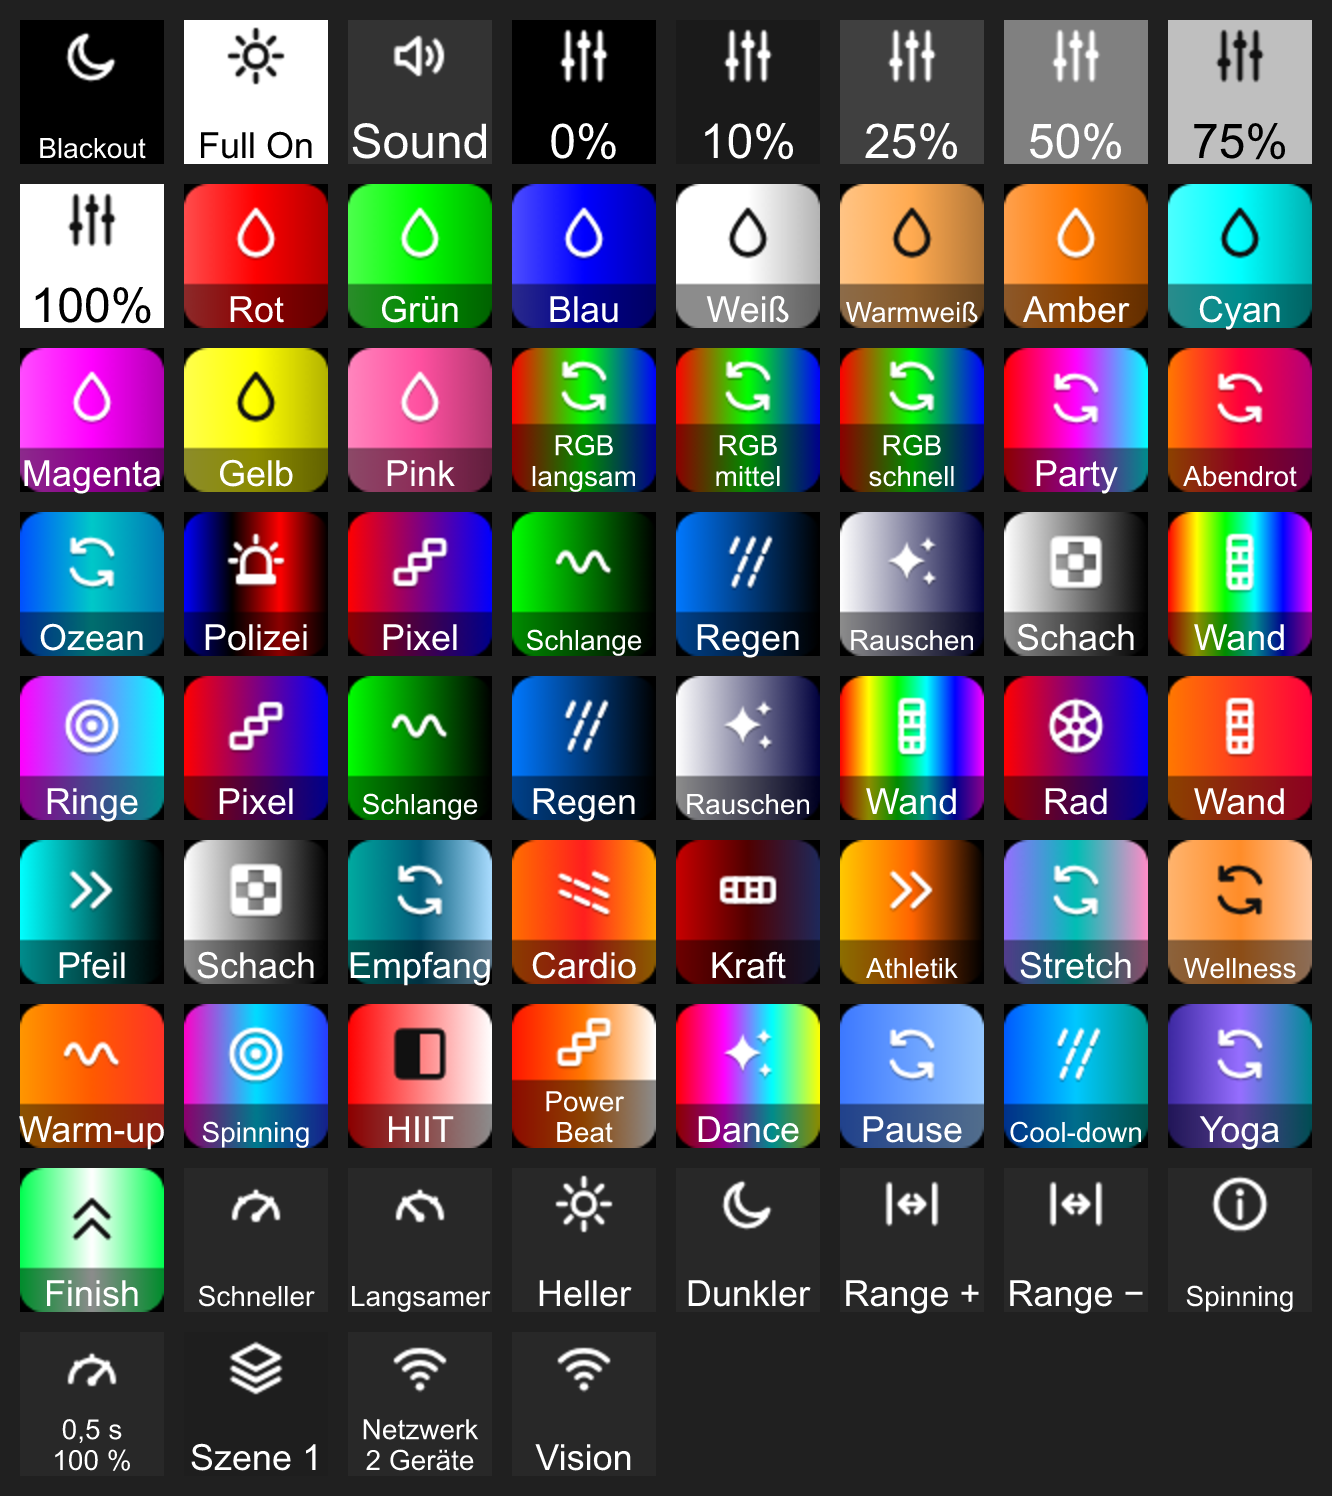
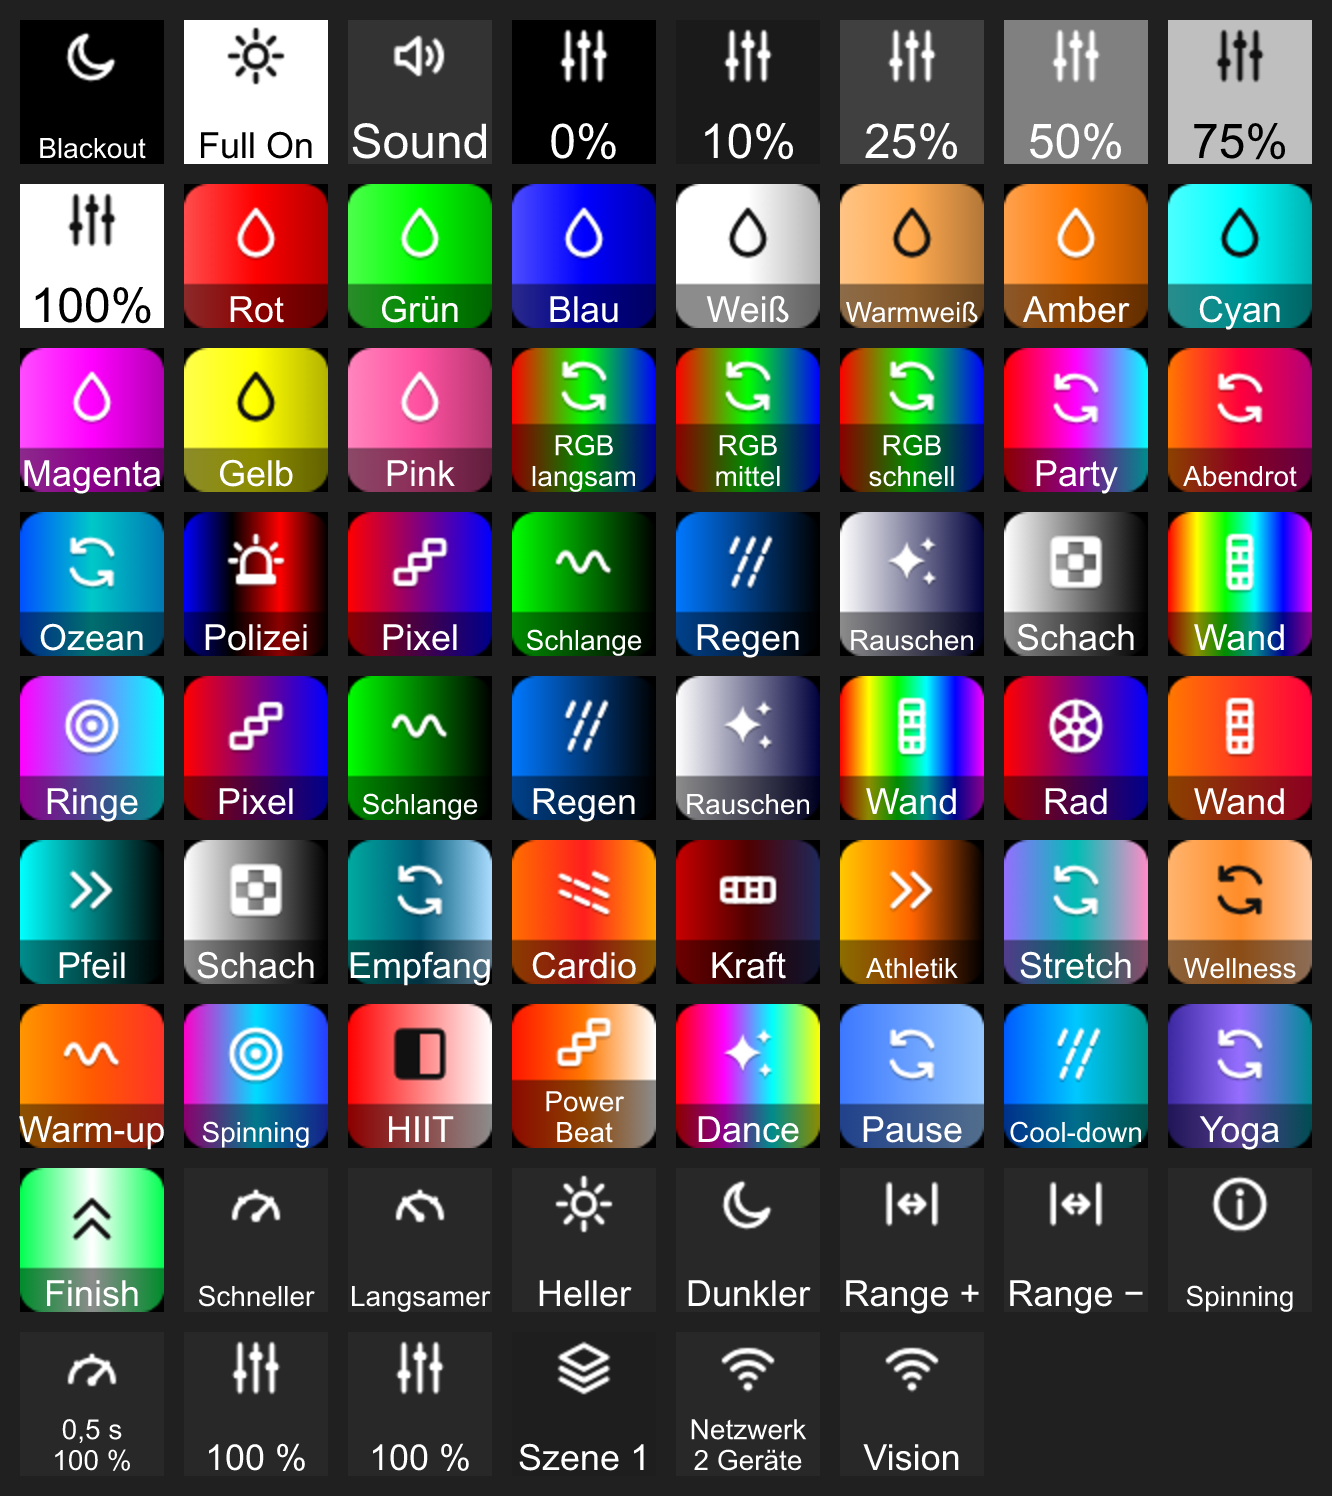
Helligkeit per Drehregler (Stream Deck +)
- Aktion "Helligkeit schrittweise (Drehregler)": Schritt in Prozentpunkten,
  schnelle Ticks werden zusammengefasst (läuft ein Befehl, wird danach nur der
  neueste Wert gesendet), kein Schritt geht verloren
- Aktion "Blackout an/aus": merkt die Helligkeit vor dem Blackout
- Feedback "Helligkeit als Balken" (RGBA-Bildpuffer) für das Display
- Presets "Drehregler (Stream Deck +)": Helligkeit (5 %) und fein (1 %),
  drehen = heller/dunkler, drücken = Blackout an/aus
- Frische Drehregler-Werte überstehen ältere Abfrageergebnisse (2,5 s)
- HELP: Abschnitt Stream Deck +, README: Funktionsliste aktualisiert

diff --git a/src/main.js b/src/main.js
@@ -11,6 +11,9 @@ const { readLocalScenes } = require('./localscenes')
 
 const REQUEST_TIMEOUT_MS = 5000
 const MAX_TRANSIENT_RETRIES = 3
+// Solange gilt ein Drehregler-Wert als aktuell, auch wenn die Abfrage noch den alten Stand liefert
+const DIM_HOLD_MS = 2500
+const DIM_FULL = 65535
 
 class VisionControlInstance extends InstanceBase {
 	constructor(internal) {
@@ -30,6 +33,9 @@ class VisionControlInstance extends InstanceBase {
 		this.scenesReadError = null
 		this.devices = [] // Geräte des Netzwerks aus GET /Network/Info (auch ausgeschaltete)
 		this.devicesReadOk = false
+		this.dimPending = {} // 'group:0' -> { value, at } letzter Helligkeitswert vom Drehregler
+		this.dimSending = {} // 'group:0' -> true, solange ein Helligkeitsbefehl unterwegs ist
+		this.dimMemory = {} // 'group:0' -> Helligkeit vor dem Blackout
 	}
 
 	async init(config) {
@@ -237,7 +243,7 @@ class VisionControlInstance extends InstanceBase {
 
 			this.connected = true
 			this.updateStatus(InstanceStatus.Ok)
-			this.checkFeedbacks('scene_active', 'connected', 'effect_active', 'color_active', 'active_effect_image', 'network_status')
+			this.checkFeedbacks('scene_active', 'connected', 'effect_active', 'color_active', 'active_effect_image', 'network_status', 'dimmer_level')
 			this.updateVariables()
 		} catch (e) {
 			this.connected = false
@@ -297,7 +303,10 @@ class VisionControlInstance extends InstanceBase {
 
 	async readProgrammer() {
 		const res = await this.http('GET', '/Control', undefined, true)
-		if (res.ok) this.programmer = await res.json()
+		if (res.ok) {
+			this.programmer = await res.json()
+			this.applyPendingDimmer()
+		}
 		return this.programmer
 	}
 
@@ -319,7 +328,7 @@ class VisionControlInstance extends InstanceBase {
 			this.refreshTimer = null
 			try {
 				await this.readProgrammer()
-				this.checkFeedbacks('effect_active', 'color_active', 'active_effect_image')
+				this.checkFeedbacks('effect_active', 'color_active', 'active_effect_image', 'dimmer_level')
 				this.updateVariables()
 			} catch (e) {
 				this.log('debug', `Aktualisierung fehlgeschlagen: ${e.message || e}`)
@@ -337,6 +346,69 @@ class VisionControlInstance extends InstanceBase {
 		}
 		await this.setControl(target, id, partial, 0)
 		this.scheduleRefresh()
+	}
+
+	// ---- Helligkeit per Drehregler -------------------------------------------
+
+	/** Aktuelle Helligkeit 0..65535: frischer Drehregler-Wert, sonst der zuletzt gelesene Stand */
+	dimmerNow(target, id) {
+		const p = this.dimPending[`${target}:${id}`]
+		if (p && Date.now() - p.at < DIM_HOLD_MS) return p.value
+		const c = findContent(this.programmer, target, id)
+		return c && c.MasterDimmer && typeof c.MasterDimmer.Value === 'number' ? c.MasterDimmer.Value : DIM_FULL
+	}
+
+	/** Frische Drehregler-Werte in den gelesenen Stand eintragen, damit Anzeige und Feedbacks nicht zurückspringen */
+	applyPendingDimmer() {
+		for (const [key, p] of Object.entries(this.dimPending)) {
+			if (Date.now() - p.at >= DIM_HOLD_MS) continue
+			const [target, id] = key.split(':')
+			const c = findContent(this.programmer, target, id)
+			if (c) c.MasterDimmer = { ...(c.MasterDimmer || {}), Default: false, Value: p.value }
+		}
+	}
+
+	/** Helligkeit um stepPct Prozentpunkte ändern (positiv = heller) */
+	async stepDimmer(target, id, stepPct) {
+		const value = this.dimmerNow(target, id) + Math.round((stepPct / 100) * DIM_FULL)
+		await this.setDimmerQueued(target, id, value, 0)
+	}
+
+	/** Blackout an/aus: merkt sich die Helligkeit davor und stellt sie wieder her */
+	async toggleBlackout(target, id, fade) {
+		const key = `${target}:${id}`
+		const cur = this.dimmerNow(target, id)
+		if (cur > 0) {
+			this.dimMemory[key] = cur
+			await this.setDimmerQueued(target, id, 0, fade)
+		} else {
+			await this.setDimmerQueued(target, id, this.dimMemory[key] || DIM_FULL, fade)
+		}
+	}
+
+	/**
+	 * Setzt die Helligkeit. Schnelle Drehregler-Schritte werden zusammengefasst:
+	 * Läuft schon ein Befehl, wird danach nur der neueste Wert gesendet.
+	 */
+	async setDimmerQueued(target, id, value, fade) {
+		const key = `${target}:${id}`
+		const v = Math.max(0, Math.min(DIM_FULL, Math.round(value)))
+		this.dimPending[key] = { value: v, at: Date.now() }
+		this.applyPendingDimmer()
+		this.updateVariables()
+		this.checkFeedbacks('active_effect_image', 'effect_active', 'color_active', 'dimmer_level')
+		if (this.dimSending[key]) return
+		this.dimSending[key] = true
+		try {
+			let sent = null
+			while (sent !== this.dimPending[key].value) {
+				sent = this.dimPending[key].value
+				await this.setControl(target, Number(id), { MasterDimmer: { Default: false, Value: sent, Fx: null } }, fade)
+			}
+		} finally {
+			this.dimSending[key] = false
+			this.scheduleRefresh(300)
+		}
 	}
 
 	// ---- Steuer-Helfer --------------------------------------------------------

diff --git a/src/feedbacks.js b/src/feedbacks.js
@@ -46,8 +46,28 @@ const WHITE = combineRgb(255, 255, 255)
 const GREEN = combineRgb(0, 153, 51)
 const RED = combineRgb(204, 0, 0)
 
+// Balken unter dem Symbol: orange gefüllt (wie der Aktiv-Rahmen), Rest dunkelgrau
+const BAR = { x: 6, y: 38, width: 60, height: 6 }
+function levelBar(fraction) {
+	const f = Math.max(0, Math.min(1, fraction || 0))
+	const filled = Math.round(f * BAR.width)
+	const buf = Buffer.alloc(BAR.width * BAR.height * 4)
+	for (let y = 0; y < BAR.height; y++) {
+		for (let x = 0; x < BAR.width; x++) {
+			const i = (y * BAR.width + x) * 4
+			const [r, g, b] = x < filled ? [255, 122, 0] : [85, 85, 85]
+			buf[i] = r
+			buf[i + 1] = g
+			buf[i + 2] = b
+			buf[i + 3] = 255
+		}
+	}
+	return { imageBuffer: buf.toString('base64'), imageBufferEncoding: { pixelFormat: 'RGBA' }, imageBufferPosition: BAR }
+}
+
 module.exports = UpdateFeedbacks
 module.exports.activeImageStyle = activeImageStyle
+module.exports.levelBar = levelBar
 
 function UpdateFeedbacks(self) {
 	// Variablen im Kontext der Taste auflösen, inkl. lokaler Variablen
@@ -120,6 +140,21 @@ function UpdateFeedbacks(self) {
 			callback: async (feedback, context) => {
 				const o = feedback.options
 				return activeImageStyle(self.activeFor(o.target, Number(await parse(context, o.id)) || 0))
+			},
+		},
+
+		dimmer_level: {
+			name: 'Helligkeit als Balken',
+			description: 'Zeichnet die aktuelle Helligkeit als Balken, z. B. für den Drehregler am Stream Deck +.',
+			type: 'advanced',
+			options: [
+				{ id: 'target', type: 'dropdown', label: 'Ziel', default: 'group', choices: TARGETS },
+				{ id: 'id', type: 'textinput', label: 'GroupID / RDMID', default: '0', useVariables: LOCAL_VARS },
+			],
+			callback: async (feedback, context) => {
+				const o = feedback.options
+				const id = Number(await parse(context, o.id)) || 0
+				return levelBar(self.dimmerNow(o.target, id) / 65535)
 			},
 		},
 

diff --git a/src/presets.js b/src/presets.js
@@ -221,6 +221,48 @@ module.exports = function (self) {
 		feedbacks: [],
 	}
 
+	// ---- Drehregler (Stream Deck +) -------------------------------------------
+	// Drehen ändert die Helligkeit, Drücken schaltet Blackout an/aus.
+	// Der Balken zeigt die Helligkeit auf dem Display über dem Regler.
+
+	presets['encoder_dimmer'] = {
+		type: 'button',
+		category: 'Drehregler (Stream Deck +)',
+		name: 'Helligkeit: drehen = heller/dunkler, drücken = Blackout an/aus',
+		options: { rotaryActions: true },
+		style: {
+			text: `$(${label}:active_dimmer)`,
+			size: '18',
+			color: WHITE,
+			bgcolor: combineRgb(40, 40, 40),
+			png64: icon('dimmer', 'light'),
+			pngalignment: 'center:top',
+			alignment: 'center:bottom',
+		},
+		steps: [
+			{
+				down: [{ actionId: 'dimmer_toggle', options: { target: 'group', id: GROUP, fade: 0 } }],
+				up: [],
+				rotate_left: [{ actionId: 'dimmer_step', options: { target: 'group', id: GROUP, step: -5 } }],
+				rotate_right: [{ actionId: 'dimmer_step', options: { target: 'group', id: GROUP, step: 5 } }],
+			},
+		],
+		feedbacks: [{ feedbackId: 'dimmer_level', options: { target: 'group', id: GROUP } }],
+	}
+
+	presets['encoder_dimmer_fine'] = {
+		...presets['encoder_dimmer'],
+		name: 'Helligkeit fein (1 % je Raste)',
+		steps: [
+			{
+				down: [{ actionId: 'dimmer_toggle', options: { target: 'group', id: GROUP, fade: 0 } }],
+				up: [],
+				rotate_left: [{ actionId: 'dimmer_step', options: { target: 'group', id: GROUP, step: -1 } }],
+				rotate_right: [{ actionId: 'dimmer_step', options: { target: 'group', id: GROUP, step: 1 } }],
+			},
+		],
+	}
+
 	// ---- Szenen: automatisch aus der App ----------------------------------------
 	// Der Tastentext ist die Namens-Variable der Szene, damit Umbenennungen in
 	// der App auch bereits platzierte Tasten erreichen.

diff --git a/src/actions.js b/src/actions.js
@@ -199,6 +199,34 @@ module.exports = function (self) {
 			},
 		},
 
+		dimmer_step: {
+			name: 'Helligkeit schrittweise (Drehregler)',
+			description: 'Für Drehregler, z. B. Stream Deck +: links drehen = negativer Schritt, rechts = positiver. Schnelles Drehen wird zusammengefasst.',
+			options: [
+				{ id: 'target', type: 'dropdown', label: 'Ziel', default: 'group', choices: TARGETS },
+				{ id: 'id', type: 'textinput', label: 'GroupID / RDMID', default: '0', useVariables: LOCAL_VARS },
+				{ id: 'step', type: 'number', label: 'Schritt in Prozentpunkten (negativ = dunkler)', default: 5, min: -100, max: 100 },
+			],
+			callback: async (event, context) => {
+				const id = Number(await parse(context, event.options.id))
+				await self.stepDimmer(event.options.target, id, Number(event.options.step) || 0)
+			},
+		},
+
+		dimmer_toggle: {
+			name: 'Blackout an/aus (Helligkeit merken)',
+			description: 'Schaltet auf 0 und beim nächsten Mal zurück auf die Helligkeit davor.',
+			options: [
+				{ id: 'target', type: 'dropdown', label: 'Ziel', default: 'group', choices: TARGETS },
+				{ id: 'id', type: 'textinput', label: 'GroupID / RDMID', default: '0', useVariables: LOCAL_VARS },
+				{ id: 'fade', type: 'number', label: 'Überblendung (0=sofort … 255=max, keine Sekunden)', default: 0, min: 0, max: 255 },
+			],
+			callback: async (event, context) => {
+				const id = Number(await parse(context, event.options.id))
+				await self.toggleBlackout(event.options.target, id, event.options.fade)
+			},
+		},
+
 		color_chase: {
 			name: 'Effekt: Farbwechsel (RGB-Fx)',
 			options: [

diff --git a/companion/HELP.md b/companion/HELP.md
@@ -26,6 +26,8 @@ Das Modul meldet sich automatisch an, erneuert das Token vor Ablauf und wiederho
 - **Farbe & Dimmer setzen**, **Dimmer setzen**, **Blackout**
 - **Effekt aus Katalog** – fertige Effekte per Auswahlliste. Optional lassen sich einzelne Werte überschreiben (Häkchen setzen, dann erscheinen die Felder):
   - Helligkeit, Tempo (Sekunden pro Farbschritt und Weichheit), Range, eigene Farben, Richtung umkehren
+- **Helligkeit schrittweise (Drehregler)** – ändert die Helligkeit um einen Schritt in Prozentpunkten (negativ = dunkler). Schnelles Drehen wird zusammengefasst, es geht kein Schritt verloren.
+- **Blackout an/aus (Helligkeit merken)** – schaltet auf 0 und beim nächsten Druck zurück auf die Helligkeit davor
 - **Laufenden Effekt anpassen** – Schneller, Langsamer, Heller, Dunkler, Range erhöhen oder verringern. Wirkt auf den Effekt, der gerade läuft, auch wenn er in der App gestartet wurde.
 - **Effekt: Muster & Geometrie** – alles frei einstellbar: Muster, Geometrie, bis zu drei Farben, Tempo, Range, Variation, Bounce, Rückwärts, Auslöser (frei, Tap, Beat, Pulse) und Helligkeit
 - **Effekt: Farbwechsel** – drei Farben mit Tempo und Weichheit
@@ -40,7 +42,18 @@ Das Modul meldet sich automatisch an, erneuert das Token vor Ablauf und wiederho
 - *Fitness: Bereiche* – Empfang, Cardio, Kraft, Athletik, Stretch, Wellness
 - *Fitness: Kurse* – Warm-up, Spinning (Beat), HIIT, Power Beat (Bass-Pulse), Dance (Beat), Pause, Cool-down, Yoga, Finish
 
+## Stream Deck + (Drehregler)
+
+Unter *Drehregler (Stream Deck +)* liegen zwei Presets für die Drehregler:
+
+- **Helligkeit** – rechts drehen = heller, links = dunkler (5 % je Raste), drücken = Blackout an/aus
+- **Helligkeit fein** – dasselbe mit 1 % je Raste
+
+Das Display über dem Regler zeigt das Dimmer-Symbol, einen orangen Balken und den Wert in %. Das Preset auf einen Drehregler ziehen; Schrittweite und Gruppe lassen sich in den Aktionen ändern. Für eigene Tasten im Button-Editor „Drehaktionen aktivieren“ einschalten und die Aktion *Helligkeit schrittweise* unter „Links drehen“ / „Rechts drehen“ eintragen.
+
 ## Feedbacks
+
+- **Helligkeit als Balken** – zeichnet die aktuelle Helligkeit als Balken, z. B. auf dem Display des Stream Deck +
 
 - **Katalog-Effekt ist aktiv** – die Taste des laufenden Effekts bekommt einen orangen Rahmen (wie die ausgewählte Kachel in der App)
 - **Farbe ist aktiv** – dasselbe für die Farbtasten

diff --git a/README.md b/README.md
@@ -1,16 +1,18 @@
 # companion-module-visioncontrol
 
-Ein [Bitfocus Companion](https://bitfocus.io/companion) Modul für die **Vision Control App** von KKT Künzler Technologies. Es steuert die App über ihre lokale REST-API: Szenen und Sequenzen, Farbe und Dimmer, einen Farbwechsel-Effekt sowie den Sound-Trigger.
+Ein [Bitfocus Companion](https://bitfocus.io/companion) Modul für die **Vision Control App** von KKT Künzler Technologies. Es steuert die App über ihre lokale REST-API: Farbe, Helligkeit, Effekte, Szenen und den Sound-Trigger.
 
 ## Funktionen
 
-- Szenen / Sequenzen an, aus, umschalten
-- Farbe und Dimmer für Gruppen oder einzelne Fixtures setzen (mit Überblendung)
-- Blackout
-- Effekt: laufender RGB-Farbwechsel
-- Sound-Control-Trigger
-- Feedbacks: aktive Szene, Verbindungsstatus
-- Variablen: Netzwerkname, Netzwerk-ID, Anzahl Szenen, Verbindungsstatus
+- Farbe und Dimmer für Gruppen oder einzelne Fixtures setzen (mit Überblendung), Blackout
+- Effekt-Katalog mit 38 fertigen Effekten (Matrix- und Geräte-Pixel, Fitnessstudio-Konzept), Werte einzeln überschreibbar
+- Effekte frei bauen: Muster, Geometrie, Farben, Tempo, Range, Auslöser (Tap, Beat, Pulse)
+- Laufenden Effekt anpassen: schneller, langsamer, heller, dunkler, Range
+- **Drehregler (Stream Deck +):** drehen = Helligkeit, drücken = Blackout an/aus, Balken auf dem Display
+- Anzeige des aktiven Effekts mit seiner Kachel, Netzwerk-Geräte und App-Erreichbarkeit
+- Szenen / Sequenzen an, aus, umschalten; Namen automatisch aus der App
+- Lokale Variablen der Taste für Ziel und Szene
+- Einheitliches Icon Pack für alle Tasten
 
 Details zur Einrichtung stehen in [`companion/HELP.md`](companion/HELP.md).
 
